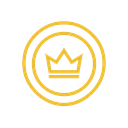
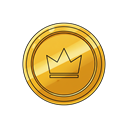
0.3.36
- new symbols and icons

diff --git a/src/combat/CombatManager.js b/src/combat/CombatManager.js
@@ -369,6 +369,7 @@ export class CombatManager {
 
             case ITEM_TYPES.COIN:
                 p.addGold(size);
+                logManager.log(`Collected ${size} Gold!`, 'gold');
                 // Critical: 4->1, 5+->2
                 if (size === 4) sm.applyStack(STATUS_TYPES.CRITICAL, 1);
                 if (size >= 5) sm.applyStack(STATUS_TYPES.CRITICAL, 2);

diff --git a/src/core/Game.js b/src/core/Game.js
@@ -14,7 +14,7 @@ import { TreasureScene } from '../scenes/TreasureScene.js';
 import { logManager } from './LogManager.js';
 import { initDebugTools } from './DebugTools.js';
 
-export const APP_VERSION = '0.3.35';
+export const APP_VERSION = '0.3.36';
 
 const config = {
     type: Phaser.AUTO,
